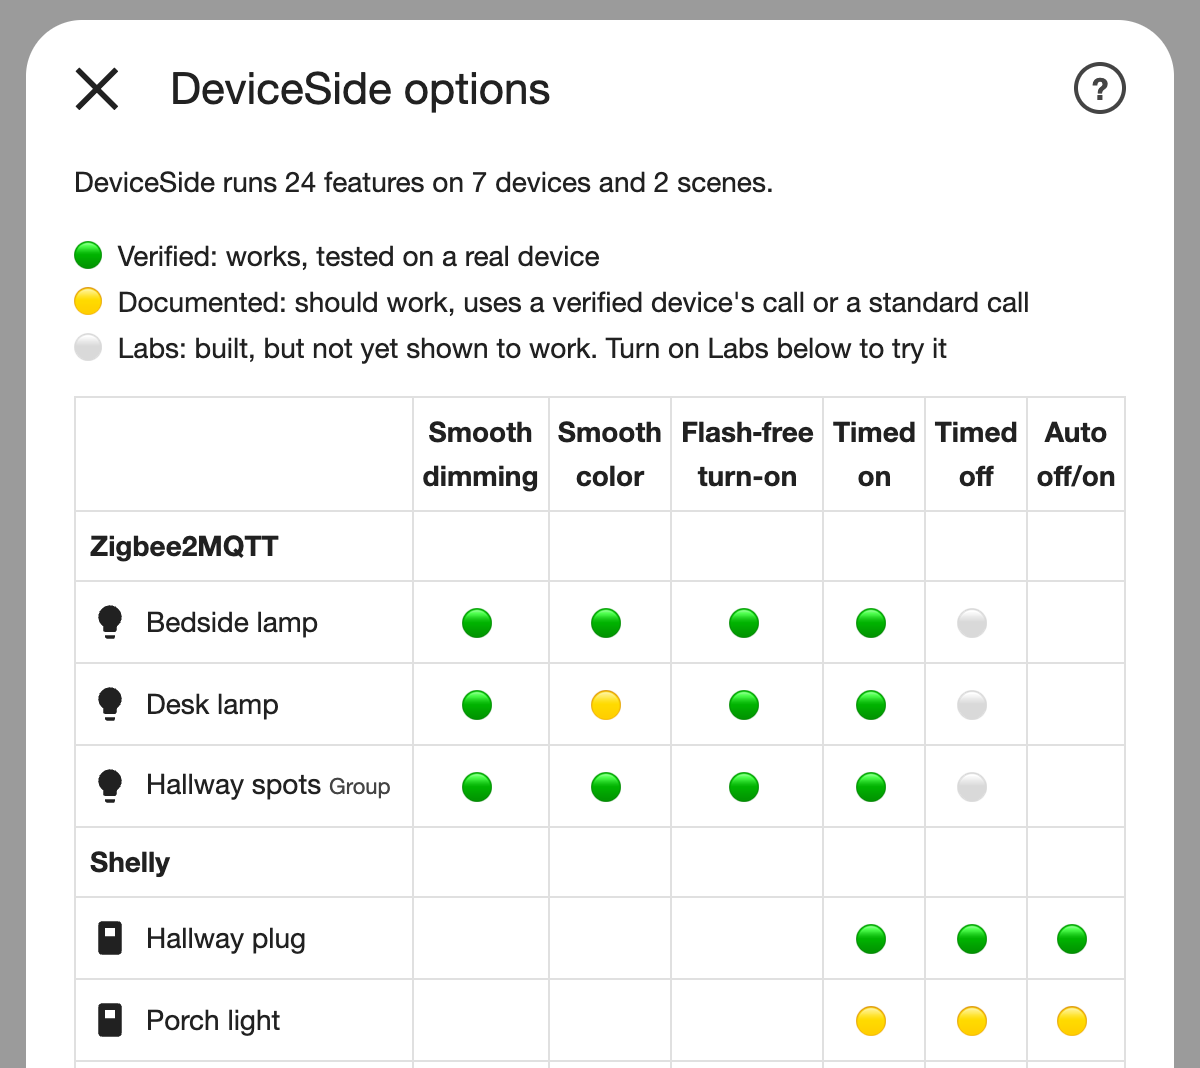
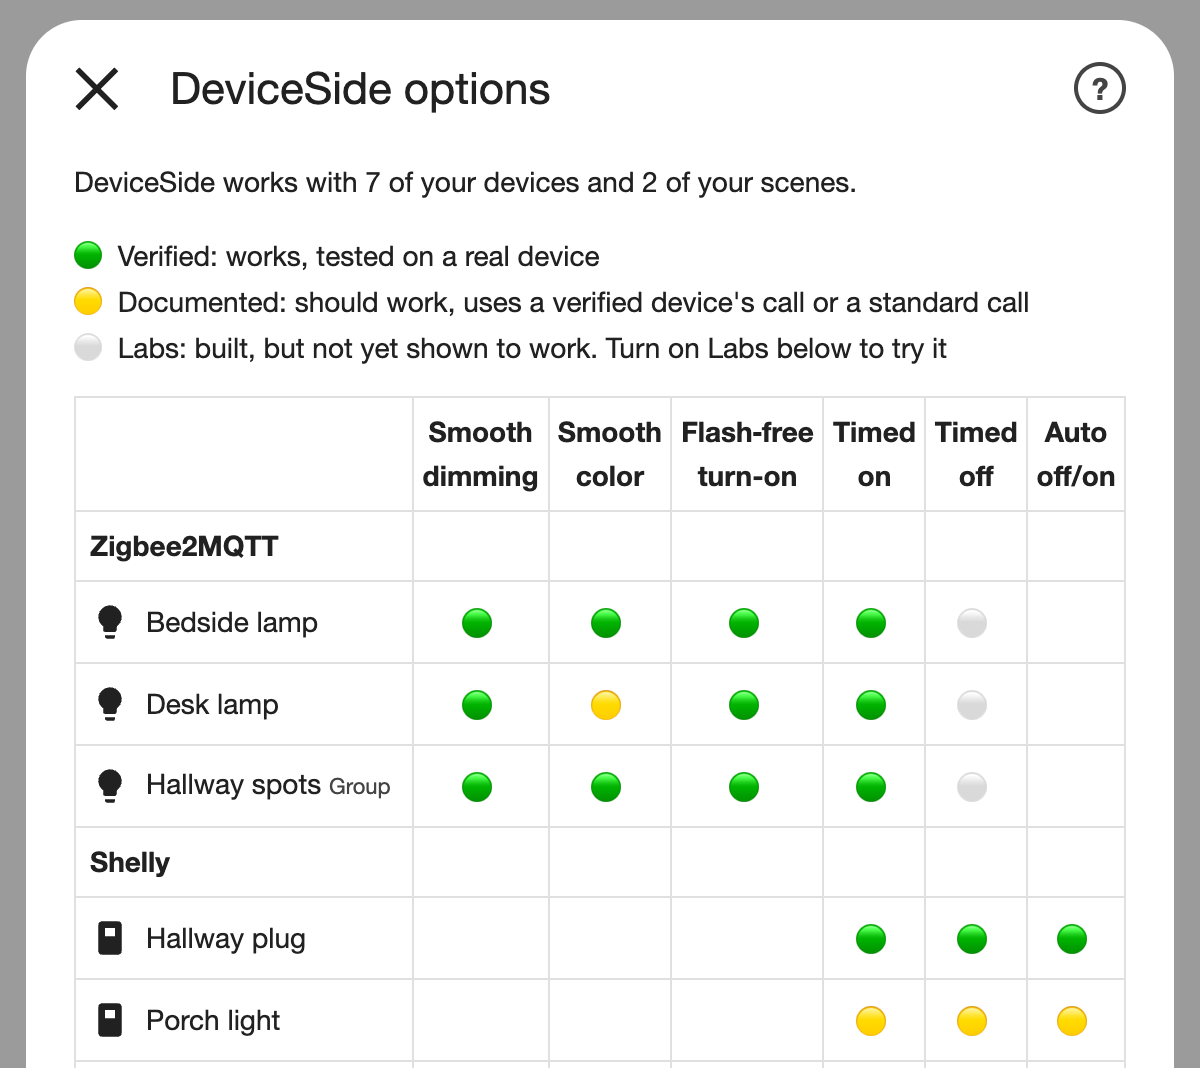
Settings: Labs line and README image match the count line
The Labs line reads "Turn on Labs: adds features on {j} of your devices."
(it said "1 devices" for one), and its condition reads devices_in_labs, so
features_in_labs goes. The README's Settings mock-up shows the new count line.

Changed region(s): [[0.185, 0.1545, 0.7092, 0.1854]]

diff --git a/tests/test_coverage.py b/tests/test_coverage.py
@@ -267,7 +267,7 @@ async def test_the_counts_and_the_labs_line_read_the_cells(hass):
     # Verified and Documented count: a, b, the group and the light.
     assert found.devices_now == 4
     # Labs: switch.c's two features, on one device.
-    assert (found.features_in_labs, found.devices_in_labs) == (2, 1)
+    assert found.devices_in_labs == 1
 
 
 @pytest.mark.usefixtures("classed", "household")
@@ -345,7 +345,7 @@ async def test_settings_shows_the_matrix_with_the_options_under_it(hass, setup_i
     step = strings["step"]["settings"]
     assert step["description"] == "{coverage}"  # tags in a translation string break HA's frontend formatter
     assert step["data_description"]["labs"].format(**holders) == (
-        "Turn on Labs: adds 2 features on 1 devices. "
+        "Turn on Labs: adds features on 1 of your devices. "
         "Try out new integrations, actions and action options, and unproven devices. "
         "Labs features may misbehave, change or be withdrawn without notice. "
         'Please report how they go with the "Report a device test result or bug" form.'
@@ -483,7 +483,7 @@ async def test_with_nothing_in_labs_the_labs_description_is_the_warning_alone(ha
 @pytest.mark.usefixtures("classed", "household")
 async def test_labs_adds_is_said_only_while_labs_is_off(hass, setup_integration):
     off = await open_coverage(hass, setup_integration)
-    assert off["description_placeholders"]["labs_adds"] == "Turn on Labs: adds 2 features on 1 devices. "
+    assert off["description_placeholders"]["labs_adds"] == "Turn on Labs: adds features on 1 of your devices. "
     hass.config_entries.async_update_entry(setup_integration, options={"labs": True})
 
     on = await open_coverage(hass, setup_integration)

diff --git a/custom_components/deviceside/config_flow.py b/custom_components/deviceside/config_flow.py
@@ -348,8 +348,8 @@ class DeviceSideOptionsFlow(config_entries.OptionsFlowWithReload):
                 "coverage": coverage.section(self.hass, found),
                 # What Labs would add: said only while Labs is off and something is in Labs.
                 "labs_adds": (
-                    f"Turn on Labs: adds {found.features_in_labs} features on {found.devices_in_labs} devices. "
-                    if not labs and found.features_in_labs
+                    f"Turn on Labs: adds features on {found.devices_in_labs} of your devices. "
+                    if not labs and found.devices_in_labs
                     else ""
                 ),
             },

diff --git a/custom_components/deviceside/coverage.py b/custom_components/deviceside/coverage.py
@@ -120,10 +120,6 @@ class Coverage:
         return sum(mark in _RUNS_NOW for mark in self.scenes)
 
     @property
-    def features_in_labs(self) -> int:
-        return len(self._cells(Mark.LABS))
-
-    @property
     def devices_in_labs(self) -> int:
         return len({row.device for row, _ in self._cells(Mark.LABS)})
 
